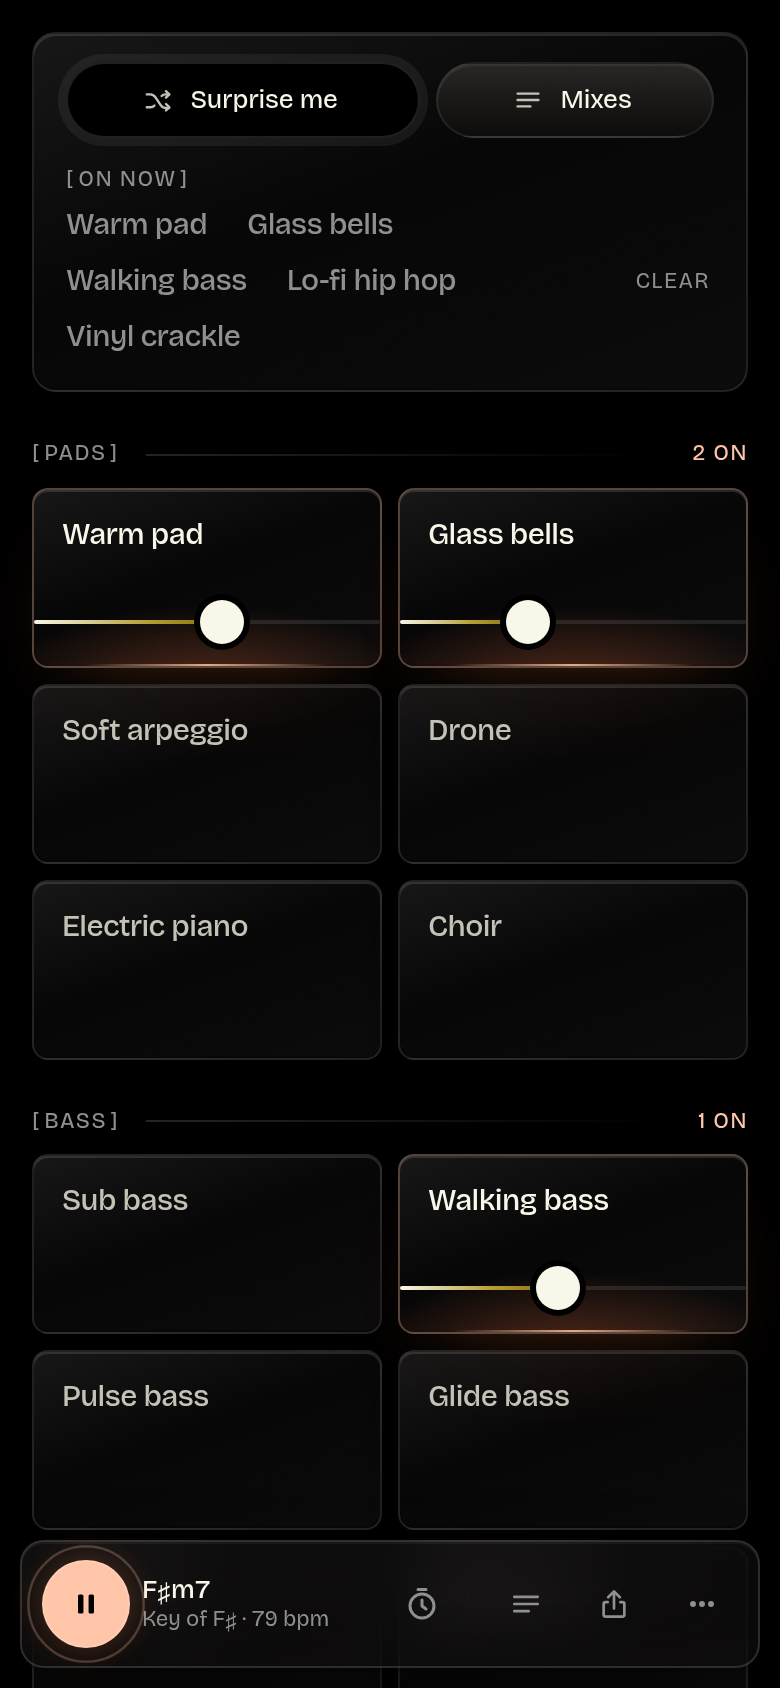
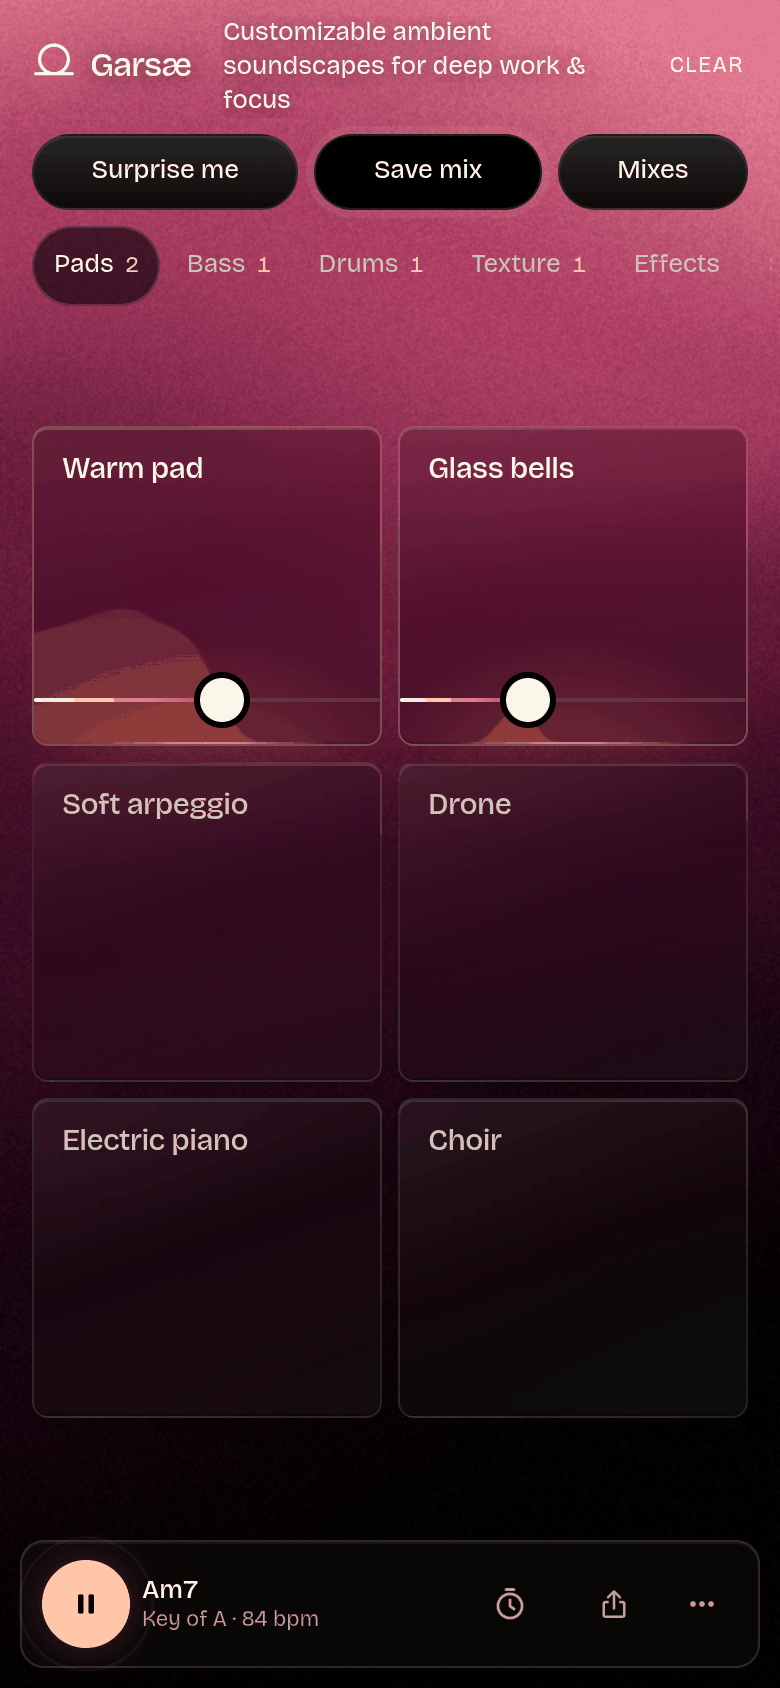
Update DESIGN and README screenshots for the one-screen layout

diff --git a/DESIGN.md b/DESIGN.md
@@ -93,12 +93,13 @@ Each instrument is a tile. Pads, bass and arps read from a shared hidden chord e
 - v1: tab open is fine. Background/lock-screen playback is deferred (it needs the Media Session API and throttle-proof timing later).
 
 ## UI
-A compact mix panel, then the tiles, then the sound settings. No hero: the page opens straight onto the instrument. A first visit opens once on a full-screen **welcome** instead, and share links skip it: the live background, the mark drawing itself, large display type and the five starters as tile-like cards with their descriptions, plus a way to build your own. Hovering or focusing a starter glides the background to that starter's colours, and picking one plays it in that key while the welcome fades and the instrument comes up underneath. This is the one exception to the rule against a hero, because a first-time visitor has no mix to come back to.
-- One **transport** holds playback: the mark and wordmark, a labelled **Play / Pause** pill (an icon-only circle on phones), chord with key and tempo, master volume (after the limiter), the session timer, Mixes, Share and About. Share lives only here, as one icon button, at every width. On wide screens it is a glass bar as wide as the page, stuck to the top; on phones it floats at the bottom, in thumb reach.
+The app is **one screen**: the page never scrolls, and adding sounds shouldn't need layout work. Top to bottom on wide screens: the transport, a slim mix strip, the tiles, and the sound bar. No hero: the page opens straight onto the instrument. A first visit opens once on a full-screen **welcome** instead, and share links skip it: the live background, the mark drawing itself, large display type and the five starters as tile-like cards with their descriptions, plus a way to build your own. Hovering or focusing a starter glides the background to that starter's colours, and picking one plays it in that key while the welcome fades and the instrument comes up underneath. This is the one exception to the rule against a hero, because a first-time visitor has no mix to come back to.
+- One **transport** holds playback: the living mark and wordmark, a labelled **Play / Pause** pill (an icon-only circle on phones), chord with key and tempo, master volume (after the limiter), the session timer, Share and About. Each action lives in one place: Share and About only here, Mixes only in the strip. On wide screens it is a glass bar as wide as the page, along the top; on phones it sits at the bottom, in thumb reach.
 - Picking a whole mix (a starter, Surprise me or a saved mix) while stopped also starts playback. Play with nothing on says "Pick a sound first" instead of playing silence.
-- Under it, the **Mix** panel: Surprise me and Mixes, then compact rows: **On now** (active tile names; tap to jump to the tile, plus Clear) and **Starters** (on a first visit, or when nothing is on), shown as small secondary pills because they are actions.
-- Tiles are **grouped by category** under bracketed micro labels (`[ PADS ]`) with a hairline rule and an "N on" count: tap to toggle, slider for level. The page is up to 1240px wide, so most categories fit on one row.
-- Below the tiles, the **Sound** panel: Evolution, tempo and key, which most mixes leave alone. On wide screens they share one row; on phones tempo and key go behind a "Tempo and key" disclosure.
+- Under it, the **mix strip**: the tagline on the left (or **Starters** when nothing is on), then Clear, Surprise me, **Save mix** and Mixes. Save mix saves in one click under the suggested name, with Undo; it shows Saved when the current mix is already kept, and renaming stays in the Mixes sheet. Starters are also always in the Mixes sheet. Phones show the mark and wordmark here, because their transport is at the bottom.
+- Tiles are **grouped by category** into rows sharing the height, 56 to 128px each: a bracketed micro label (`[ PADS ]`) and an "N on" count on the left, six tiles on the right. Tap to toggle, slider for level. A new category is one more row, and a seventh tile wraps. If rows ever outgrow the window they scroll inside `.stage`.
+- Along the bottom, the **sound bar**: Evolution, tempo and key on one line.
+- Under 900px wide there is no room for all that, so **tabs** show one category at a time, each with a count of what is on, and the sound settings are their own tab. Only CSS decides this; the markup is the same at every width. Below 540px tall the bars stop being fixed and everything scrolls inside the page area, so browser zoom loses nothing.
 - Media keys and OS media overlays work through the Media Session API. Space toggles playback unless a keyboard user is on a button.
 
 ## Visual language
@@ -113,11 +114,11 @@ The goal is a calm, cinematic instrument: black ground, warm light, very little 
 **Type**
 - Bricolage Grotesque (variable with the optical-size axis, self-hosted through `@fontsource-variable/bricolage-grotesque/opsz.css`, so it works offline). Chosen over Inter, which felt generic; it keeps the same optical-size setup, so small text stays plain and large text gets its more characterful display shapes.
 - Display text is weight 500 with tight tracking: sheet titles and the wordmark -0.03em, tile and mix names -0.02em. Body 13-15px.
-- **Micro labels** are the only uppercase: 11px, +0.06em tracking, grey, optionally in brackets (`.micro`, `.bracket`). Used for section labels, scale ends, footer text and links, and Undo.
+- **Micro labels** are the only uppercase: 11px, +0.06em tracking, grey, optionally in brackets (`.micro`, `.bracket`). Used for section labels, scale ends, Clear and Undo.
 - Tabular numerals for anything that counts.
 
 **Surfaces and glass**
-- Glass is for layers that float (the transport, sheets and the toast) and for the tiles. Tiles are frosted: a 42% dark tint over a 16px backdrop blur, a diagonal sheen that catches the light at the top left, a lit top edge and a shaded bottom edge (`--tile-edge`). Without backdrop-filter they fall back to a near-opaque tint. Never glass inside other glass, such as glass tiles inside the Sound panel.
+- Glass is for the transport, the sound bar, sheets, the toast and the tiles. The mix strip has none, so its text carries a soft shadow to stay readable on the bright top of the background. Tiles are frosted: a 42% dark tint over a 16px backdrop blur, a diagonal sheen that catches the light at the top left, a lit top edge and a shaded bottom edge (`--tile-edge`). Without backdrop-filter they fall back to a near-opaque tint. Never glass inside other glass, such as glass tiles inside the Sound panel.
 - The background is **Grainient** from React Bits (`src/ui/Grainient.tsx`, vendored with its MIT + Commons Clause notice; wrapped by `src/ui/Background.tsx`): a slow, domain-warped grainy gradient whose colours come from the mix (`src/ui/palette.ts`), always near-black at the bottom and lit towards the top. **Key sets the hue**, walked around the circle of fifths so related keys get neighbouring hues (C is cobalt, G violet, A crimson, A♭ green); **tempo sets the vividness** (slow mixes deeper and muted, fast ones more saturated and a little brighter); **evolution sets the hue spread** across the gradient (a static mix is one hue, a shifting one sweeps across its neighbours). Colours are built in OKLCH and fitted into sRGB by lowering chroma, so no key clips. A new mix glides to its colours over a few seconds (instantly under reduced motion). Sliders take the same colours (`--slider-mid`, `--slider-end`, cream into the two brightest stops, registered with `@property` so they glide too) rather than the peach accent. Paused, it is dimmer (75% opacity) and barely flows; while music plays it brightens over a couple of seconds and flows faster with the mix's loudness (read from an analyser after the limiter, so the volume knob doesn't change it). Pointer stirring and click swirls are off, and its grain is static: the background never reacts to the pointer. It renders at 1x pixel ratio (the gradient field at half of that) and at about 30 fps, mounts after the first paint so the shaders never delay the UI, fades in on load, creates a fresh canvas on every mount (a lost WebGL context never comes back, and StrictMode mounts twice in development), and stands still under reduced motion.
 - Film grain (an SVG noise overlay) sits over everything.
 
@@ -125,11 +126,13 @@ The goal is a calm, cinematic instrument: black ground, warm light, very little 
 - Buttons, the segmented control, selects, the save field and the toast are pills. Surfaces are small-radius rectangles: 6 (icon buttons), 8 (tiles, transport), 12 (panel, sheets).
 - **Primary** (`.btn.black` / `.btn.primary`): black pill, faint white hairline, a 4px glass halo, and a warm glow on hover. **Secondary**: a dark vertical gradient pill with a hairline. Ghost for the rest. Press scales to 0.97. Nothing lifts on hover; the idle Play button only gains a soft glow.
 - On tiles keep the glass and add a peach rim, light rising from the bottom edge (a radial coral glow plus a 1px cream line), and a soft coral shadow beneath.
+- **Tile waves:** a tile that is on and playing draws its own sound as a soft frequency silhouette rising from the bottom edge, in low-opacity peach behind the name (`src/ui/TileWave.tsx`). It is a shape, not a meter: smoothed, one shared 24 fps loop, normalised to the tile's own peak and scaled by its slider. It falls flat on pause, stops with the tab hidden, and is absent under reduced motion. Effect tiles make no sound of their own, so they have none.
 - Sliders: a 2px track lit cream into the background's two brightest colours up to the value, and a cream thumb with a black ring that glows on hover. 44px tall on touch.
 - Tiles show only their name, centred. On hover or keyboard focus the name rises and the description slides in beneath it (transforms only, so tiles never resize); touch screens, which cannot hover, show names only. The effect mark sits beside the name.
 
 **Icons and controls**
 - One SVG icon set (`src/ui/icons.tsx`): 20px grid, 1.5px stroke, round caps. The mark (`MarkIcon`) is the eclipse setting over the horizon; the app icon matches it, and the browser tab shows the mark itself (`public/favicon.svg`), black on light themes and `--text` on dark. No emoji or unicode glyphs as icons.
+- **The living mark** (`src/ui/LiveMark.tsx`) is the brand's signature: at rest it is exactly the logo. When music starts the eclipse rises clear of its horizon over a couple of seconds and glows with the loudness; when music stops it sets again, and over the timer's last 30 seconds it sets with the fade. Share links unfurl with `public/og.png`, cut from the README banner.
 
 **Motion**
 - `cubic-bezier(.2,.8,.2,1)`. 120ms for press and toggle, 200ms for hover, 320ms for sheets. Everything respects `prefers-reduced-motion`.
